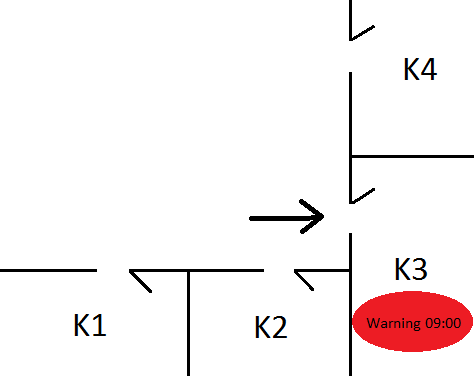
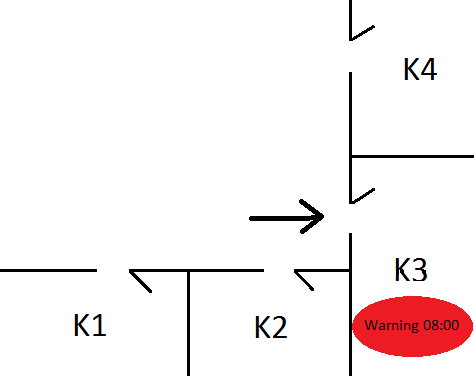
-New picture added to "martin"s accesses. -New comment on method

diff --git a/degreeWork/src/View/ApplicationView.java b/degreeWork/src/View/ApplicationView.java
@@ -318,12 +318,17 @@ public class ApplicationView extends JFrame {
             ImageIcon icon = new ImageIcon(imageName);
             icon.getImage().flush();
             pictureLabel.setIcon(icon);
-        } else if (timeSlider.getValue() > 8 && timeSlider.getValue() < 13 && martinCheckBox.isSelected() == true) {
+        } else if (timeSlider.getValue() == 8 && martinCheckBox.isSelected() == true) {
+            String imageName = "C:\\Users\\Kalgus\\Documents\\NetBeansProjects\\degreeWork\\images\\BeforeMartinEnter.png";
+            ImageIcon icon = new ImageIcon(imageName);
+            icon.getImage().flush();
+            pictureLabel.setIcon(icon);
+        } else if (timeSlider.getValue() > 8 && timeSlider.getValue() < 10 && martinCheckBox.isSelected() == true) {
             String imageName = "C:\\Users\\Kalgus\\Documents\\NetBeansProjects\\degreeWork\\images\\martinEnter.png";
             ImageIcon icon = new ImageIcon(imageName);
             icon.getImage().flush();
             pictureLabel.setIcon(icon);
-        } else if (timeSlider.getValue() > 12 && timeSlider.getValue() < 15 && martinCheckBox.isSelected() == true) {
+        } else if (timeSlider.getValue() > 9 && timeSlider.getValue() < 15 && martinCheckBox.isSelected() == true) {
             String imageName = "C:\\Users\\Kalgus\\Documents\\NetBeansProjects\\degreeWork\\images\\Martin2.png";
             ImageIcon icon = new ImageIcon(imageName);
             icon.getImage().flush();
@@ -437,7 +442,9 @@ public class ApplicationView extends JFrame {
     }//GEN-LAST:event_timeGraphMenuItemActionPerformed
 
     /**
-     *
+     * Method that asks the controller for a dataset and in turn creates the graph object
+     * needed to represent the data.
+     * 
      * @param evt
      */
     private void roomGraphMenuItemActionPerformed(java.awt.event.ActionEvent evt) {//GEN-FIRST:event_roomGraphMenuItemActionPerformed
